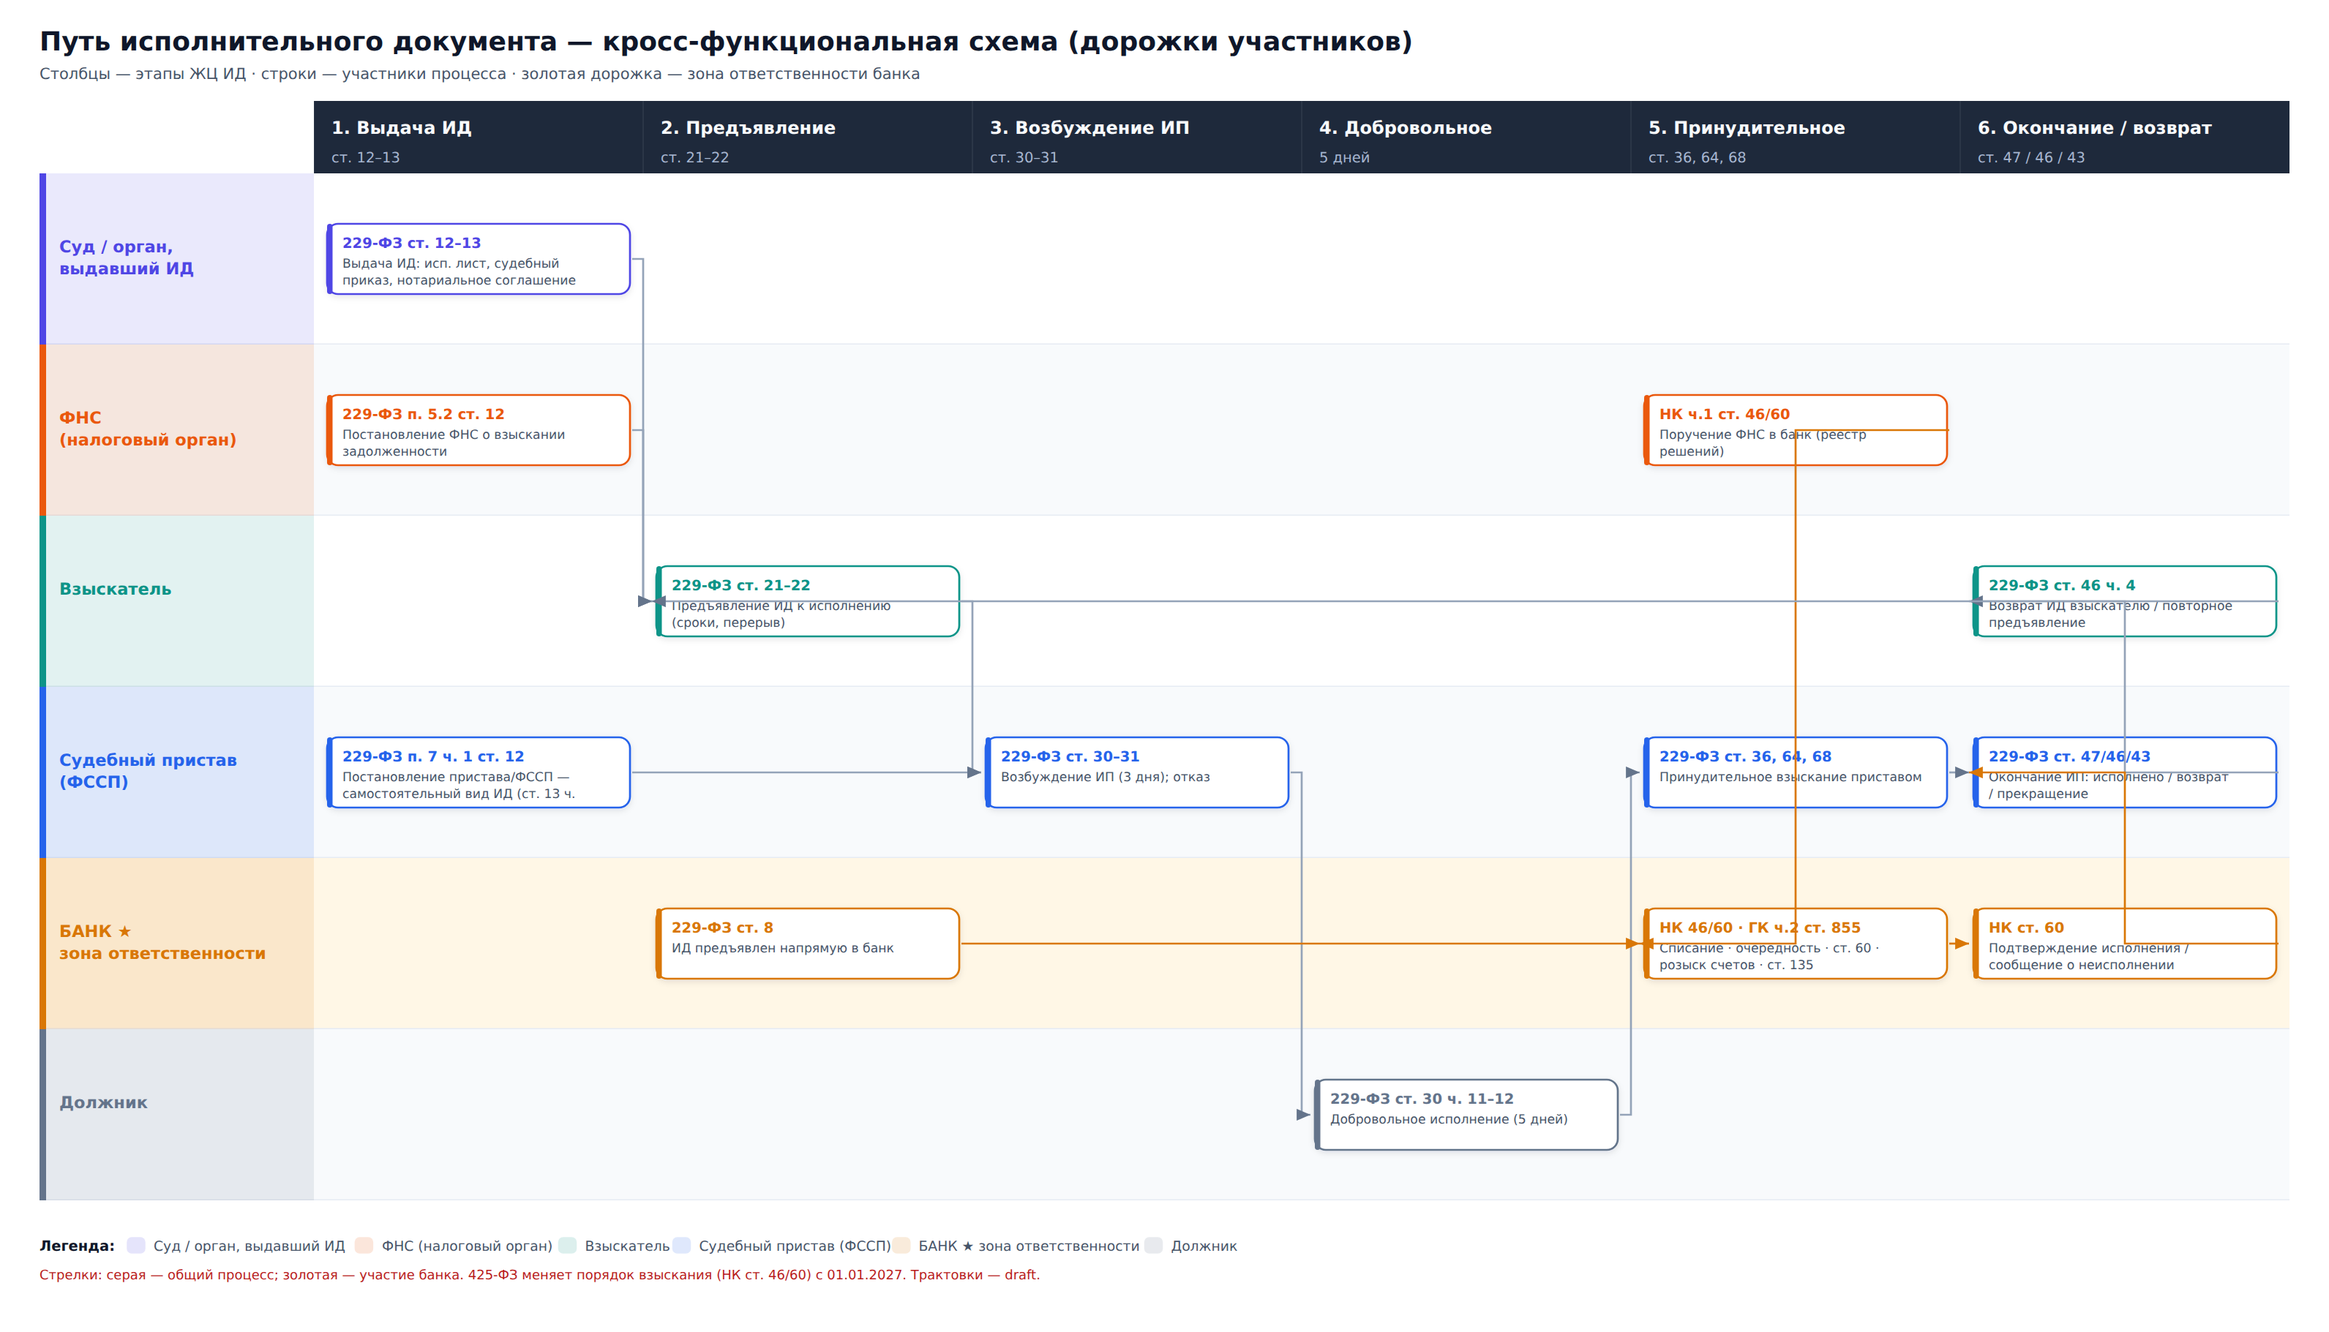
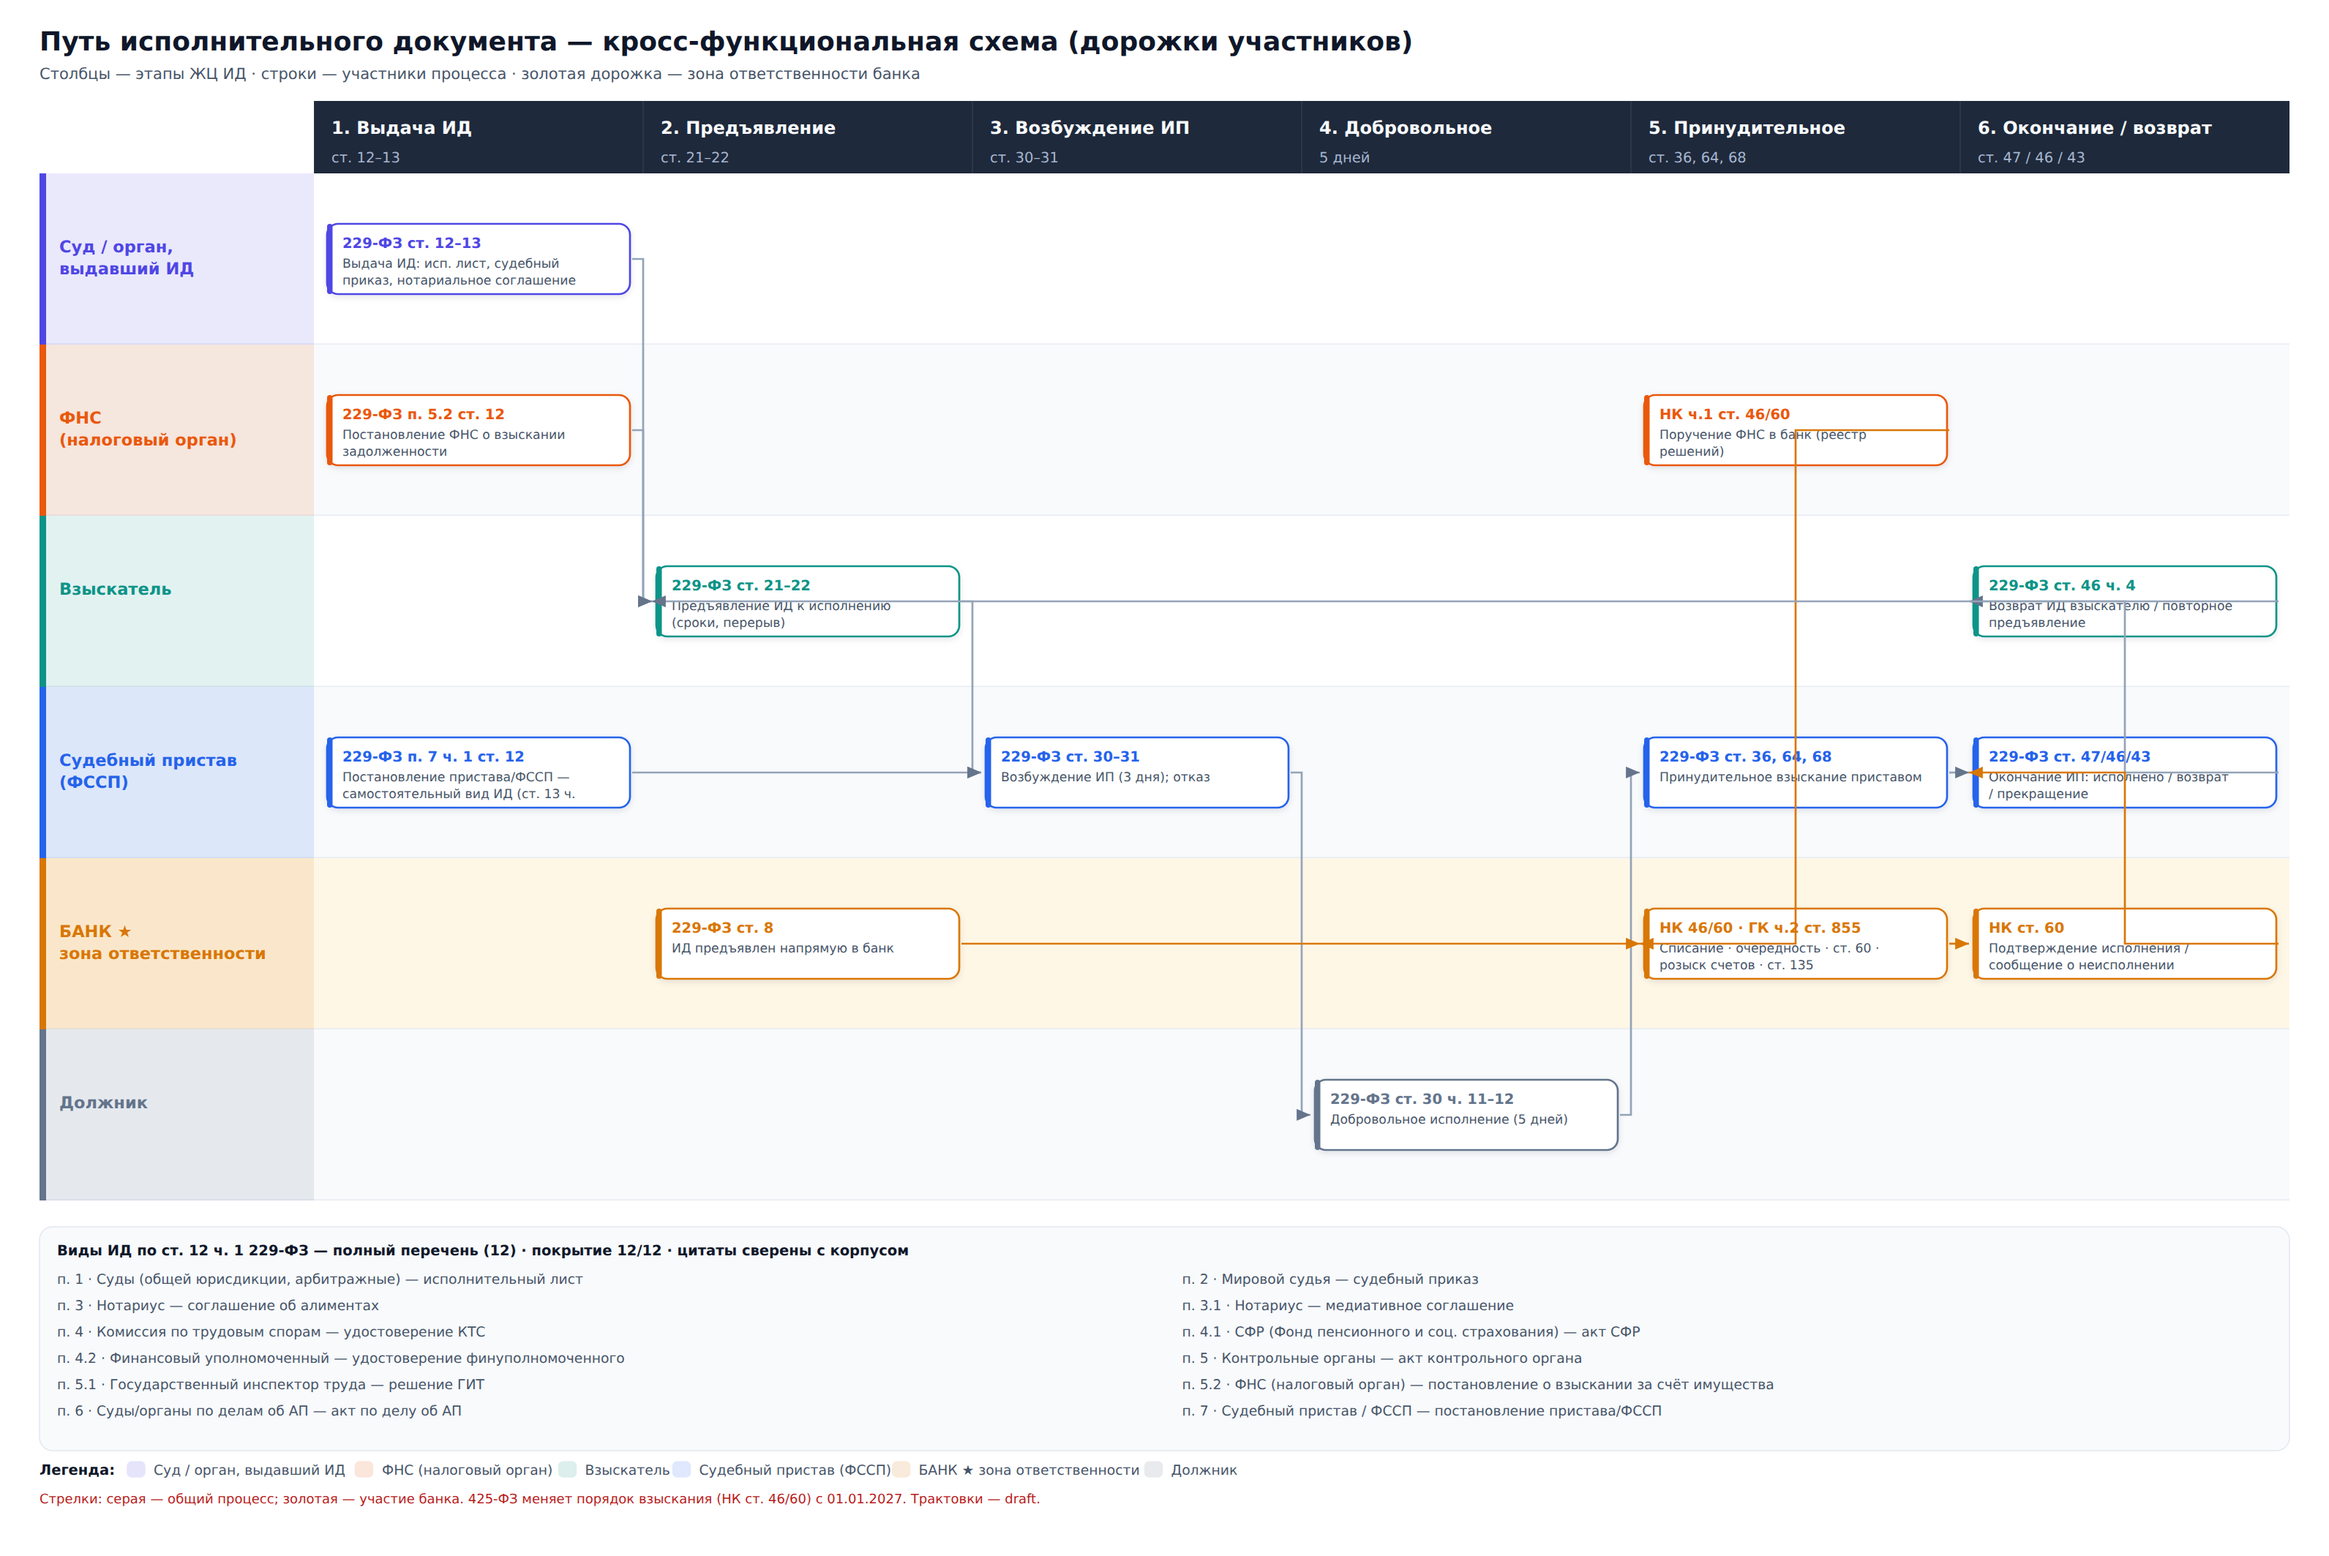
Доверие к схеме: чек-лист видов ИД из нормы (id_sources.json) + гейт полноты (coverage+integrity); схема генерирует полный перечень ст.12 (12 позиций)

diff --git a/check_scheme_completeness.py b/check_scheme_completeness.py
@@ -1,0 +1,66 @@
+#!/usr/bin/env python3
+# -*- coding: utf-8 -*-
+"""ГЕЙТ ПОЛНОТЫ схемы: оракул берётся ИЗ НОРМЫ, а не из головы.
+
+Проверки:
+  1) ЦЕЛОСТНОСТЬ — каждая позиция чек-листа (id_sources.json) подтверждена
+     цитатой в корпусе (law_chunks). Ловит выдуманные/устаревшие позиции.
+  2) ПОКРЫТИЕ — каждая позиция чек-листа присутствует в схеме (SVG).
+     Ловит ПРОПУСКИ (именно то, что пропустило ФССП).
+
+Использование:
+  python3 check_scheme_completeness.py SCHEMA.svg [--checklist law-ingest/id_sources.json]
+Выход: 0 = ок, 1 = неполнота.
+"""
+import json
+import re
+import sys
+from pathlib import Path
+
+BASE = Path(__file__).parent
+CHUNKS = BASE / "law-ingest/law_chunks.json"
+
+
+def corpus_text():
+    ch = json.loads(CHUNKS.read_text(encoding="utf-8"))["chunks"]
+    txt = " ".join(c["text"] for c in ch)
+    return re.sub(r"\[([^\]]+)\]\(#[^)]+\)", r"\1", txt)  # снять md-ссылки
+
+
+def main():
+    svg_path = sys.argv[1]
+    cl_path = BASE / "law-ingest/id_sources.json"
+    if "--checklist" in sys.argv:
+        cl_path = Path(sys.argv[sys.argv.index("--checklist") + 1])
+    cl = json.loads(cl_path.read_text(encoding="utf-8"))
+    items = cl["items"]
+    svg = Path(svg_path).read_text(encoding="utf-8")
+    cor = corpus_text()
+
+    integrity, coverage = [], []
+    for it in items:
+        q = re.sub(r"\s+", " ", it["quote"]).strip()
+        if q not in cor:
+            integrity.append(it)
+        if it["doc"] not in svg:
+            coverage.append(it)
+
+    print("═" * 64)
+    print(f"ГЕЙТ ПОЛНОТЫ: {svg_path}")
+    print(f"Источник списка: {cl['source_norm']}")
+    print(f"Позиций в чек-листе: {len(items)}")
+    print(f"1) Целостность (цитаты в корпусе): "
+          f"{'✅ все подтверждены' if not integrity else '❌ ' + str(len(integrity)) + ' не найдено'}")
+    for it in integrity:
+        print(f"   - п.{it['p']}: цитата не найдена в корпусе")
+    print(f"2) Покрытие схемы: {'✅ все позиции отражены' if not coverage else '❌ не отражено: ' + str(len(coverage))}")
+    for it in coverage:
+        print(f"   - п.{it['p']} «{it['doc']}» ({it['who']}) — НЕТ на схеме")
+    ok = not (integrity or coverage)
+    print("ИТОГ:", "✅ ПОЛНОТА ПОДТВЕРЖДЕНА" if ok else "❌ СХЕМА НЕПОЛНА")
+    print("═" * 64)
+    sys.exit(0 if ok else 1)
+
+
+if __name__ == "__main__":
+    main()

diff --git a/build_swimlane.py b/build_swimlane.py
@@ -9,9 +9,11 @@
 """
 from pathlib import Path
 from xml.sax.saxutils import escape
+import json
 
 BASE = Path(__file__).parent
 OUT = BASE / "Fedor_Swimlane_ИД.svg"
+CL = json.loads((BASE / "law-ingest/id_sources.json").read_text(encoding="utf-8"))
 FS = "DejaVu Sans, Arial, sans-serif"
 
 M = 36
@@ -86,7 +88,13 @@ def main():
     col_x0 = M + HDR_W
     W = col_x0 + COL_W * len(STAGES) + M
     grid_top = TITLE_H + STAGE_H
-    H = grid_top + ROW_H * len(LANES) + 120
+    grid_end = grid_top + ROW_H * len(LANES)
+    # панель контрольного перечня (виды ИД из ст.12 ч.1) — генерируется из чек-листа
+    cl_items = CL["items"]
+    CL_COLS = 2
+    cl_rows = (len(cl_items) + CL_COLS - 1) // CL_COLS
+    PANEL_H = 60 + cl_rows * 24
+    H = grid_end + 24 + PANEL_H + 96
 
     s = [f'<svg xmlns="http://www.w3.org/2000/svg" width="{W}" height="{H}" viewBox="0 0 {W} {H}" '
          f'font-family="{FS}">',
@@ -156,6 +164,16 @@ def main():
             mx = (sx + ex) / 2
             s.append(f'<polyline points="{sx+2:.0f},{sy:.0f} {mx:.0f},{sy:.0f} {mx:.0f},{ey:.0f} {ex-4:.0f},{ey:.0f}" '
                      f'fill="none" stroke="{col}" stroke-width="1.8" marker-end="url(#{mk})"/>')
+
+    # панель «Виды ИД (ст. 12 ч. 1)» — полный перечень (из law-ingest/id_sources.json)
+    py = grid_end + 24
+    s.append(f'<rect x="{M}" y="{py}" width="{W-2*M}" height="{PANEL_H}" rx="12" fill="#f8fafc" stroke="#e2e8f0"/>')
+    s.append(txt(M + 16, py + 26, f"Виды ИД по ст. 12 ч. 1 229-ФЗ — полный перечень ({len(cl_items)}) · покрытие {len(cl_items)}/{len(cl_items)} · цитаты сверены с корпусом", 13, INK, "700"))
+    col_w2 = (W - 2 * M - 32) // CL_COLS
+    for i, it in enumerate(cl_items):
+        cx = M + 16 + (i % CL_COLS) * (col_w2 + 16)
+        cy = py + 52 + (i // CL_COLS) * 24
+        s.append(txt(cx, cy, f"п. {it['p']} · {it['who']} — {it['doc']}", 12.5, DIM))
 
     # легенда
     ly = H - 74
